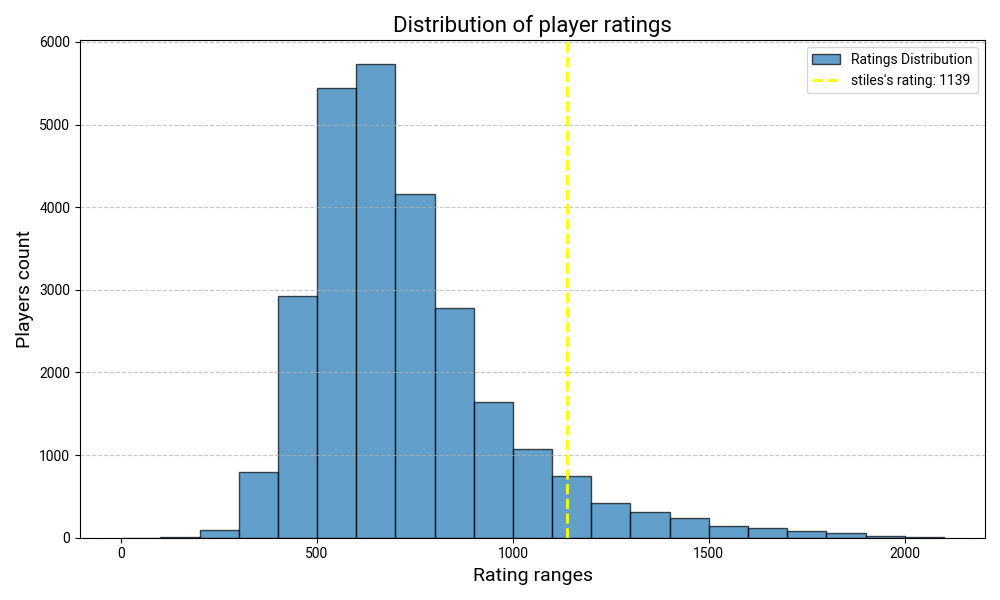
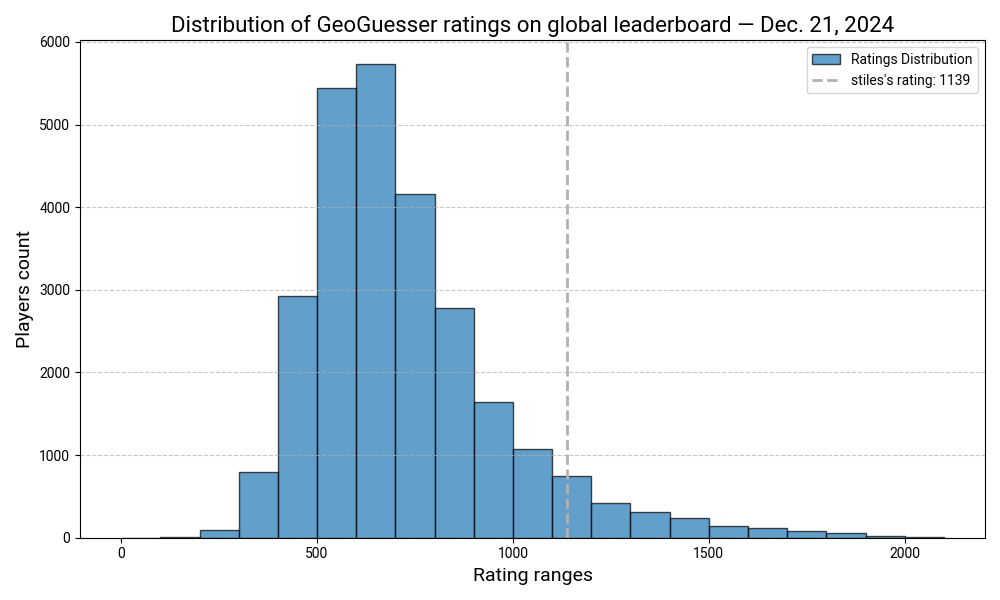
better ratings histogram

Changed region(s): [[0.155, 0.03, 0.899, 0.06], [0.806, 0.12, 0.837, 0.15]]

diff --git a/scripts/visualize_leaderboard.py b/scripts/visualize_leaderboard.py
@@ -3,6 +3,9 @@ import matplotlib.pyplot as plt
 from pathlib import Path
 from matplotlib import rcParams
 
+today = pd.Timestamp('today').strftime('%b. %d, %Y')
+print(today)
+
 username = 'stiles'
 
 # Define paths relative to the script's directory
@@ -43,13 +46,13 @@ user_rating = user_rating.iloc[0] if not user_rating.empty else None
 # Create a histogram for player ratings
 plt.figure(figsize=(10, 6))
 plt.hist(latest_data['rating'], bins=range(0, 2200, 100), edgecolor='black', alpha=0.7, label="Ratings Distribution")
-plt.title(f'Distribution of player ratings', fontsize=16)
+plt.title(f'Distribution of GeoGuesser ratings on global leaderboard — {today}', fontsize=16)
 plt.xlabel('Rating ranges', fontsize=14)
 plt.ylabel('Players count', fontsize=14)
 
-# Add a yellow line for the username's rating if it exists
+# Add a gray anno line for the username's rating if it exists
 if user_rating is not None:
-    plt.axvline(user_rating, color='yellow', linestyle='--', linewidth=2, label=f"{username}'s rating: {user_rating}")
+    plt.axvline(user_rating, color='#b1b1b1', linestyle='--', linewidth=2, label=f"{username}'s rating: {user_rating}")
 else:
     print(f"Warning: Username '{username}' not found in the latest data.")
 

diff --git a/README.md b/README.md
@@ -167,7 +167,9 @@ This repository contains scripts to help you fetch and analyze data about your G
     }
 ]
 ```
-*Roughly 23,000 other users omitted for brevity.*
+**Rankings histogram**: Another script — `visualize_leaderboard.py` - creates a histogram showing the distrubution of player ratings on the global leaderboard and where a defined user ranks in those bins. 
+
+![Map](visuals/charts/rating_distribution_histogram.png)
 
 ---
 
